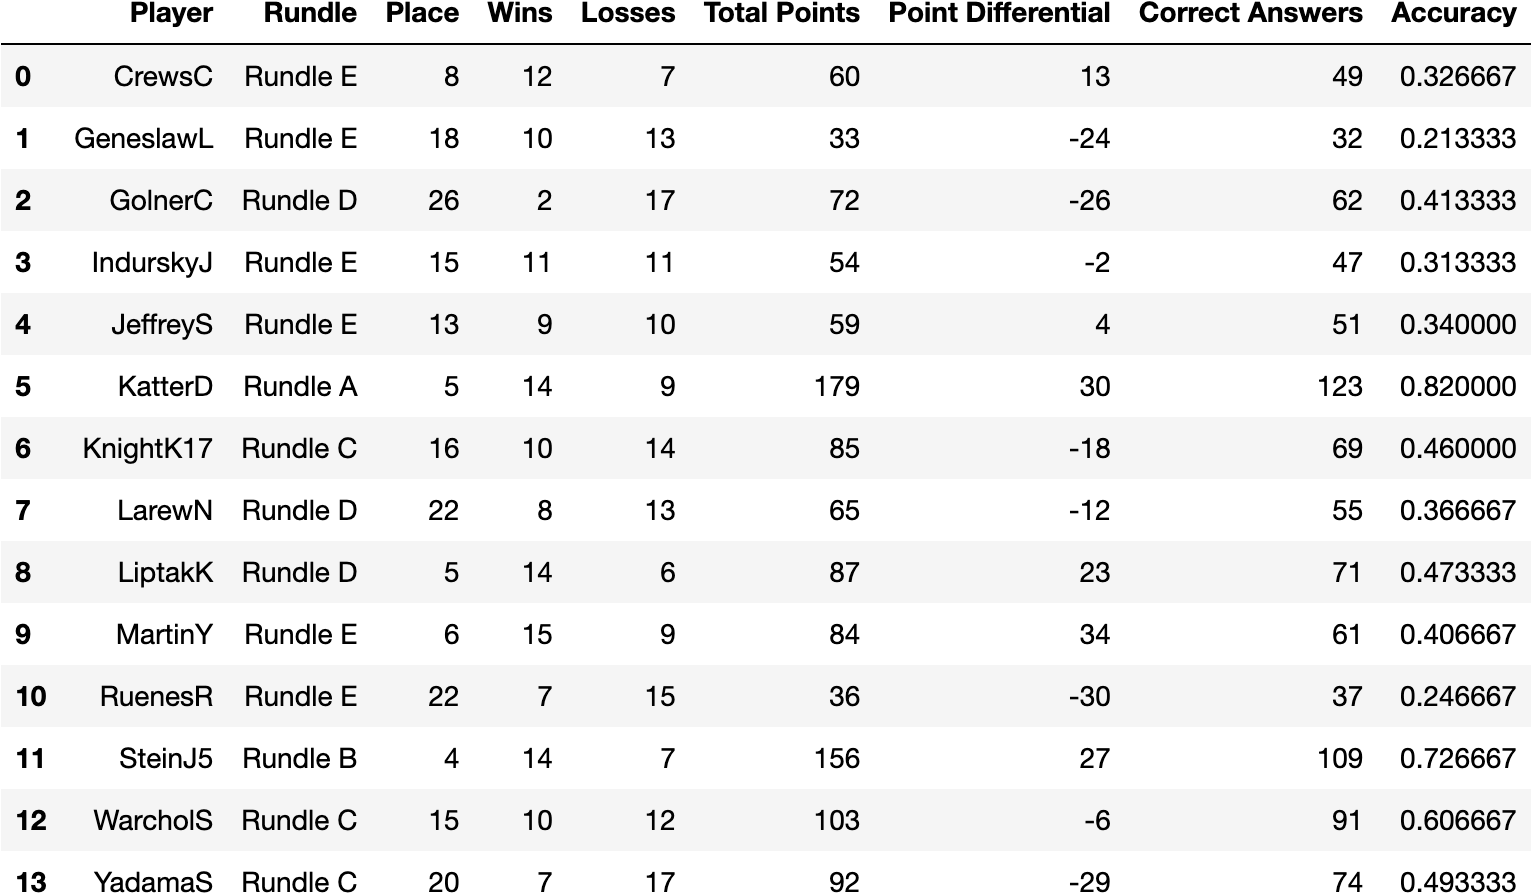
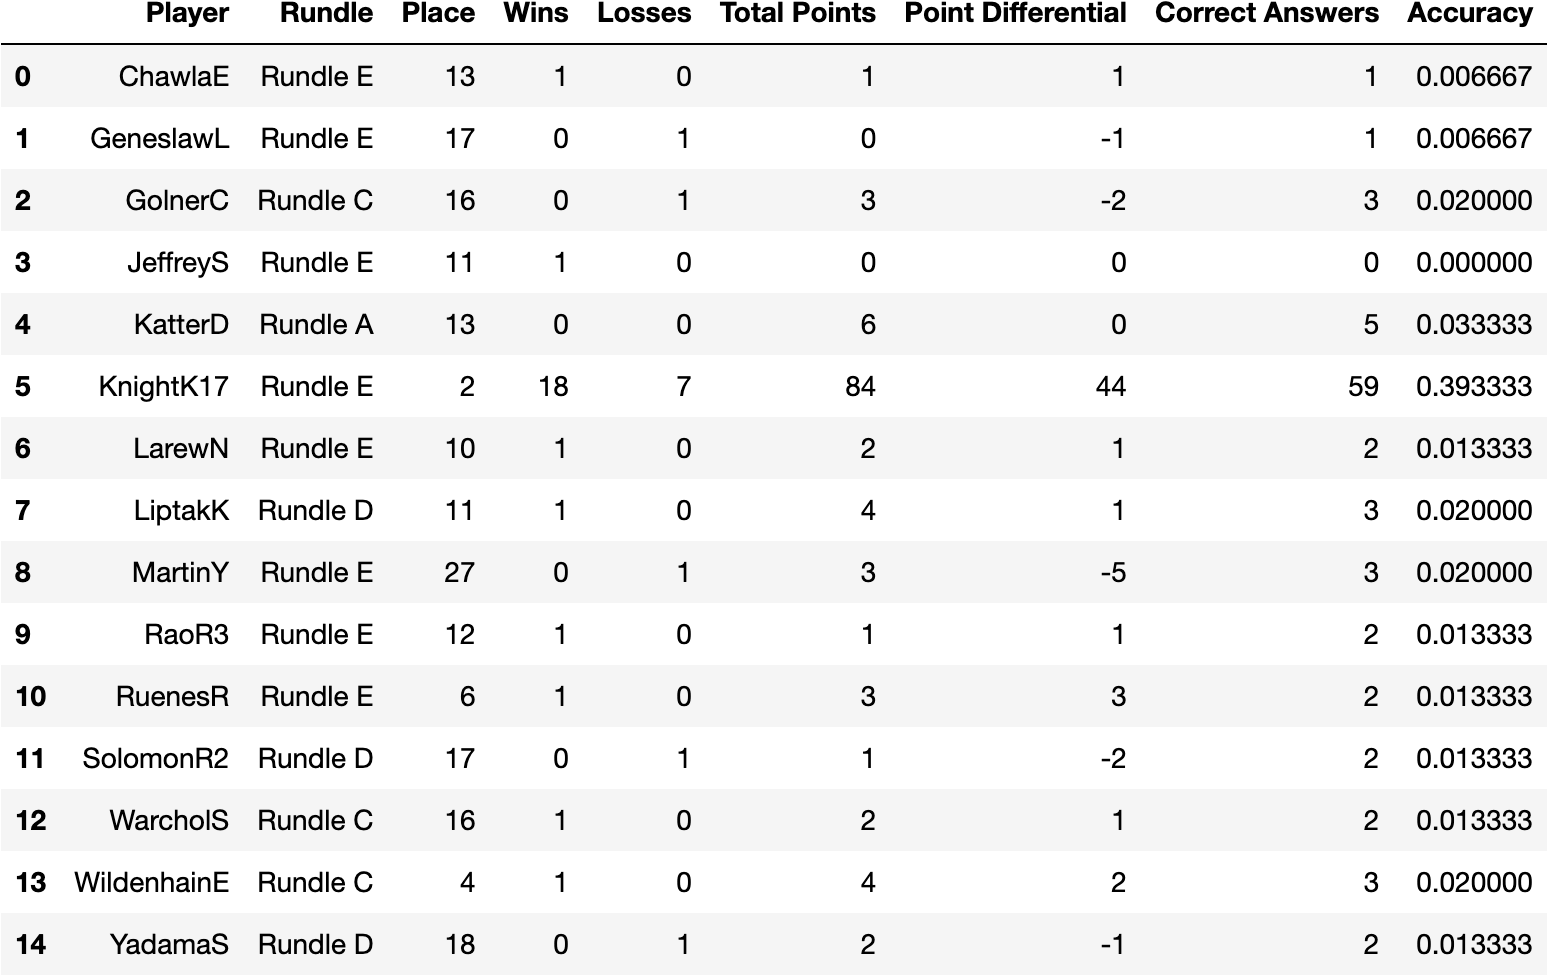
committing stuff

diff --git a/app.py b/app.py
@@ -18,7 +18,6 @@ print("config", config)
 openai.api_key = config["OPENAI_API_KEY"]
 
 
-
 player_list_imessage = {
     "Simon": {"id": "55444"},
     "Nick": {"id": "58714"},
@@ -28,13 +27,16 @@ player_list_imessage = {
     "CC": {"id": "64157"},
     "Katie": {"id": "53779"},
     "Cat": {"id": "71256"},
-    "Yasmina": {"id": "72221"},
-    "Kate": {"id": "68591"},
+    # "Yasmina": {"id": "72221"},
+    # "Kate": {"id": "68591"},
     "Luke": {"id": "68635"},
     "Sagar": {"id": "74612"},
     "Scott": {"id": "74615"},
-    "Julia": {"id": "71455"},
     "Enshu": {"id": "82484"},
+    "Evan": {"id": "74465"},
+    "Rohan": {"id": "88991"},
+    "Rebecca": {"id": "86268"},
+    "Taylor": {"id": "96076"},
 }
 player_list_sms = {
     "Simon": {"id": "55444"},
@@ -117,7 +119,9 @@ def get_scores(player_list):
             if question_results is None:
                 question_results = []
                 day_table = page.inner_html("table.QTable")
-                day_table_df = pd.read_html(StringIO("<table>" + day_table + "</table>"))
+                day_table_df = pd.read_html(
+                    StringIO("<table>" + day_table + "</table>")
+                )
                 if day_table_df and len(day_table_df) > 0:
                     day_table_df = day_table_df[0].dropna()
                     for i in range(6):
@@ -146,13 +150,21 @@ def get_scores(player_list):
                 if len(q["smart"]) == 1:
                     who = q["smart"][0]
                     question_text += (
-                        "Only " + who + " got: " + q["question"] + " -- WOW!\n"
+                        "Only " + who + " got: " + q["question"] + " -- WOW!\n\n"
+                    )
+                elif len(q["smart"]) == len(player_list):
+                    question_text += (
+                        "Everyone got: " + q["question"] + " -- IT'S TOO EASYYYYY!\n\n"
                     )
 
                 if len(q["dumb"]) == 1:
                     who = q["dumb"][0]
                     question_text += (
-                        "Only " + who + " missed: " + q["question"] + " -- WOW!\n"
+                        "Only " + who + " missed: " + q["question"] + " -- WOW!\n\n"
+                    )
+                elif len(q["dumb"]) == len(player_list):
+                    question_text += (
+                        "Everyone missed: " + q["question"] + " -- WE R DUM!\n\n"
                     )
 
         users = {item["user"] for item in todays_scores}
@@ -176,7 +188,8 @@ def get_scores(player_list):
                             h2h_users.add(item["user"])
                             h2h_users.add(opponent)
 
-        todays_scores.sort(key=lambda x: x["user"])
+        todays_scores.sort(key=lambda x: x["score"][0],reverse=True)
+
         # # "user": username,
         #                     "score": score,
         #                     "record": record,
@@ -187,7 +200,7 @@ def get_scores(player_list):
             scores_string += (
                 f"{item['user']}: {item['record']} {item['score']} {item['rundle']}\n"
             )
-
+    print(scores_string)
     return scores_string, question_text, head_to_head_string
 
 
@@ -292,17 +305,20 @@ def post_text(text, recipients):
         }
     )
     http = urllib3.PoolManager()
-    r = http.request('POST', 'http://localhost:3005/message',
-                     headers={'Content-Type': 'application/json'},
-                     body=encoded_body)
+    r = http.request(
+        "POST",
+        "http://localhost:3005/message",
+        headers={"Content-Type": "application/json"},
+        body=encoded_body,
+    )
 
     print(r.read())
 
     # Post request with requests python library
 
 
-
-def get_chatgpt_response(scores,qs,h2h):
+def get_chatgpt_response(scores, qs, h2h):
+    
 
     recap_prompt = """
     Please write a single-paragraph news blurb about the following daily results from a trivia league, which is divided into different leagues called "rundles" for the following players. 
@@ -315,7 +331,7 @@ def get_chatgpt_response(scores,qs,h2h):
     In addition, add a paragraph of highlights, which calls out the following head-to-head matchups and any question(s) that a single player got correct or missed. 
     If no information for either is provided, do not include it in the output."""
 
-    prompt = recap_prompt + scores +'\n' + highlights_prompt + '\n' + qs +'\n' + h2h
+    prompt = recap_prompt + scores + "\n" + highlights_prompt + "\n" + qs + "\n" + h2h
 
     response = openai.ChatCompletion.create(
         model="gpt-3.5-turbo-16k-0613",
@@ -328,11 +344,11 @@ def get_chatgpt_response(scores,qs,h2h):
             }
         ],
     )
-    return response["choices"][0]['message']['content']
+    return response["choices"][0]["message"]["content"]
 
 
 if __name__ == "__main__":
-   
+
     # eos_df = get_eos_stats(player_list_imessage)
     # dfi.export(eos_df, "imessage_eof.png")
 
@@ -359,4 +375,3 @@ if __name__ == "__main__":
         # gpt_resp = get_chatgpt_response(scores, questions, h2h)
 
         # post_text(gpt_resp, recipients_sms)
-
